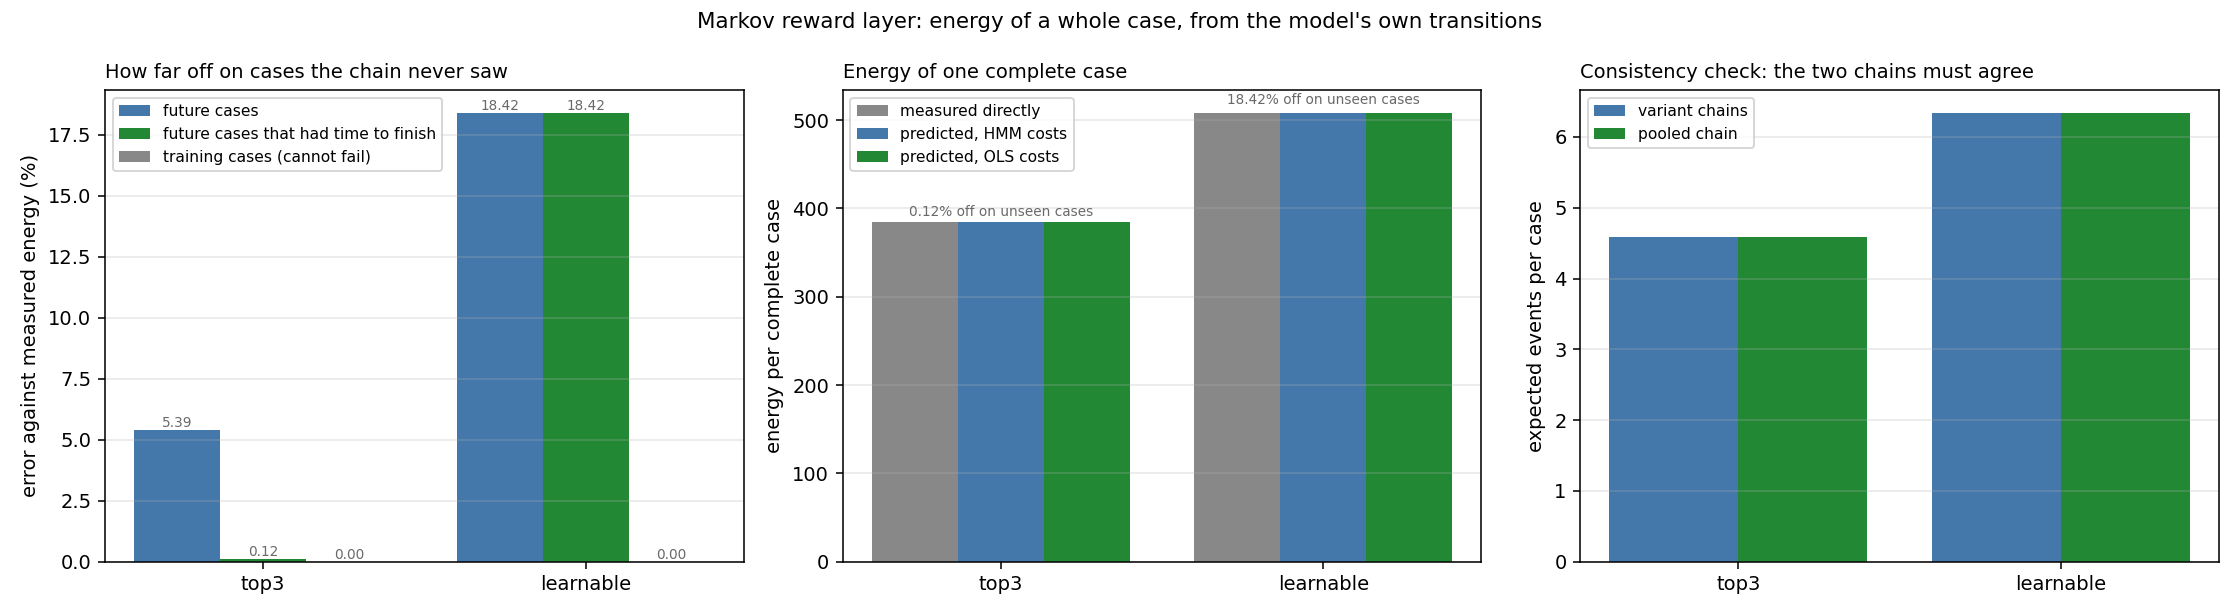
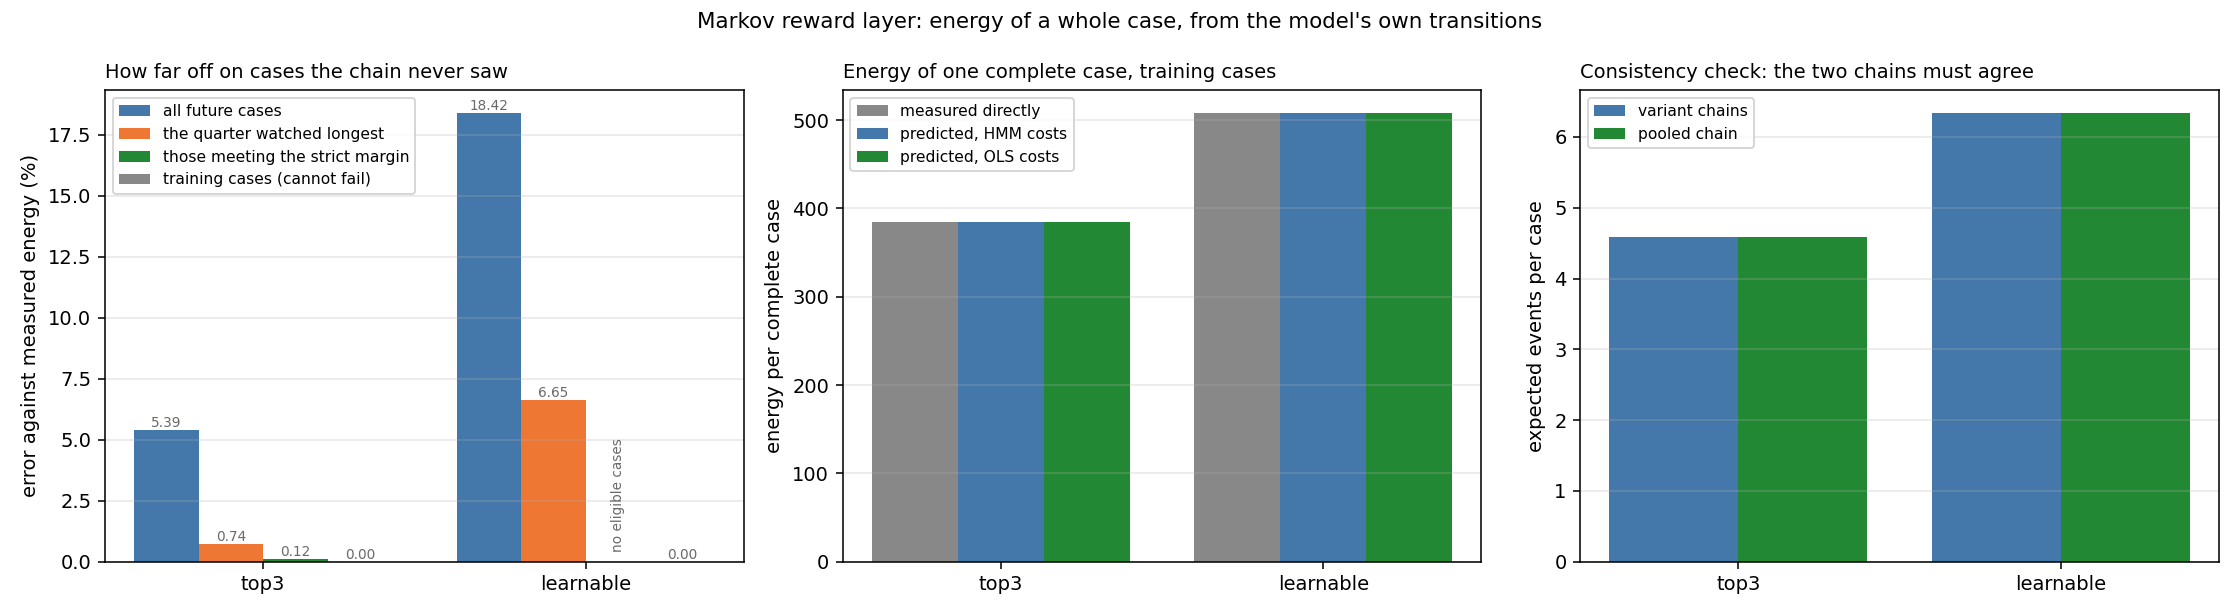
Take the end of the recording from the last gap, not the last event
The guard that removes future cases with too little time to finish derived the end of the recording from the very last recorded event. The log runs densely to 18 January 2019 at 14:34 and then stops, but exactly seven events out of 1,595,603 sit behind gaps of two weeks to five months after that date, so the observation window looked ten months longer than it is, every future case cleared the margin, and the two reported columns held the same number.

The end is now the last event before the first gap longer than a week, computed once from the complete log. Only four such gaps exist and all four lie in that tail. The settled and follow-up comparisons are made in clock time rather than in interval indices, because a scope with fewer activities has a shorter timeline of its own and an index would be capped at its last interval, giving each scope a different window.

On the whole system the strict test then has no eligible cases at all, which is the honest answer for this dataset, so a longest-follow-up quarter was added beside it: 15,516 cases at 6.65 percent, averaging 6.43 events against 6.35 for training cases. Those are cases watched longest, not cases known to have finished, and the pattern is consistent with truncation rather than proof of it. The figure separates the held-out panel from the training-case panel and no longer labels any group as a subset of another.

diff --git a/final_model/reward_layer.py b/final_model/reward_layer.py
@@ -59,9 +59,16 @@ average 4.5984 events, late starters only 3.6314, and case length correlates
 +0.43 with how much room was left.
 
 The "settled" columns therefore keep only future cases that began at least the
-90th percentile of training case duration before the log ends. Both are reported:
-where settled and future agree, the log end explains nothing and any gap is real
-process drift.
+90th percentile of training case duration before the recording ends, and the
+"longest_follow_up" columns keep the quarter of future cases watched longest.
+Neither group is a set of cases known to have finished; the first had a full
+margin of observation and the second had the most of it. Where the strict group
+exists and agrees with the full future group, the end of the recording explains
+nothing. Where it cannot be formed at all, as on the whole system, the strict
+test is simply unavailable, and the gap between the full future group and the
+longest-watched quarter is reported as evidence CONSISTENT WITH truncation by
+the end of the recording. It is not proof of truncation, and it is never process
+drift on the strength of these numbers alone.
 
 Usage
 ─────
@@ -72,6 +79,7 @@ from __future__ import annotations
 
 import argparse
 import sys
+from functools import lru_cache
 from pathlib import Path
 
 import numpy as np
@@ -80,8 +88,10 @@ import pandas as pd
 sys.path.insert(0, str(Path(__file__).resolve().parent.parent))
 
 from event_state_hmm import (  # noqa: E402
+    FREQ,
     _complete_training_cases,
     _fit_rewards,
+    _simulated_complete_events,
     fit_pooled_hmm,
     load_problem,
 )
@@ -145,6 +155,47 @@ def pooled_visits(problem) -> np.ndarray:
 
 
 SETTLED_QUANTILE = 0.90
+# The last recorded event is not a safe end date for the recording. The log runs
+# densely to 18 January 2019 and then stops. Exactly seven events out of
+# 1,595,603 sit behind gaps of two weeks to five months after that, and taking
+# the maximum stretches the observation window by ten months, which lets every
+# future case appear to have had time to finish. The end is therefore the last
+# event before the first gap longer than a week. There are only four such gaps in
+# the whole log and all four lie in that stray tail, so the rule is unambiguous.
+RECORDING_GAP = pd.Timedelta(days=7)
+# Share of future cases kept for the longest follow-up check.
+FOLLOW_UP_SHARE = 0.25
+
+
+@lru_cache(maxsize=1)
+def recording_end_timestamp() -> pd.Timestamp:
+    """When the log stops recording, taken once from the complete log.
+
+    One date is used for every scope. The recording period is a property of the
+    log, not of the subset being analysed, so deriving it per scope would give
+    each one a different observation window and make the settled columns
+    incomparable.
+    """
+    stamps = pd.DatetimeIndex(_simulated_complete_events()["ts"]).sort_values()
+    gaps = stamps[1:] - stamps[:-1]
+    big = np.flatnonzero(gaps > RECORDING_GAP)
+    return stamps[big[0]] if len(big) else stamps[-1]
+
+
+def _observation_deadline(problem) -> pd.Timestamp:
+    """The latest a case may start and still have a full margin of observation.
+
+    Everything here is done in clock time rather than in interval indices. A
+    scope holding fewer activities has a shorter timeline of its own, so an index
+    would be capped at that scope's last interval and each scope would end up
+    judged against a slightly different window. Timestamps keep the promise that
+    the observation period is one and the same for every scope.
+    """
+    grouped = problem.events.groupby("case", sort=False)["ts"]
+    first, last = grouped.min(), grouped.max()
+    training = list(_complete_training_cases(problem.events, problem.cut))
+    margin = (last[training] - first[training]).quantile(SETTLED_QUANTILE)
+    return recording_end_timestamp() - margin
 
 
 def future_cases(problem) -> set:
@@ -161,12 +212,26 @@ def settled_future_cases(problem) -> set:
     and it looks shorter than it is. The margin is the 90th percentile of how
     long a training case takes, so nine out of ten cases had room to finish.
     """
-    grouped = problem.events.groupby("case", sort=False)["bin"]
-    first, last = grouped.min(), grouped.max()
-    training = list(_complete_training_cases(problem.events, problem.cut))
-    margin = float((last[training] - first[training]).quantile(SETTLED_QUANTILE))
-    return {case for case in future_cases(problem)
-            if first[case] <= problem.events["bin"].max() - margin}
+    first = problem.events.groupby("case", sort=False)["ts"].min()
+    deadline = _observation_deadline(problem)
+    return {case for case in future_cases(problem) if first[case] <= deadline}
+
+
+def longest_follow_up_cases(problem) -> set:
+    """The quarter of future cases with the most observation time after they start.
+
+    On the whole system no future case clears the strict margin above, so that
+    column is empty there. This softer group is not a set of cases known to have
+    finished; it is the group that was watched longest, and it is reported as
+    supporting evidence rather than as a guaranteed result.
+    """
+    first = problem.events.groupby("case", sort=False)["ts"].min()
+    future = sorted(future_cases(problem))
+    if not future:
+        return set()
+    room = (recording_end_timestamp() - first[future]).clip(lower=pd.Timedelta(0))
+    threshold = room.quantile(1.0 - FOLLOW_UP_SHARE)
+    return set(room[room >= threshold].index)
 
 
 def _case_energy(events: pd.DataFrame, cases: set) -> tuple[float, float, int]:
@@ -220,7 +285,8 @@ def report(scope: str) -> dict:
     # The same prediction, now on cases the chain never saw.
     predicted = row["case_energy_variants_hmm"]
     for label, group in (("future", future_cases(problem)),
-                         ("settled", settled_future_cases(problem))):
+                         ("settled", settled_future_cases(problem)),
+                         ("longest_follow_up", longest_follow_up_cases(problem))):
         energy, length, count = _case_energy(problem.events, group)
         row[f"{label}_cases"] = count
         row[f"{label}_measured_mean_case_energy"] = energy

diff --git a/final_model/plot_reward.py b/final_model/plot_reward.py
@@ -7,7 +7,9 @@ Left panel   the real test: how far the prediction is from the truth on cases
              the chain never saw. Training agreement is shown beside it only for
              comparison, because a chain built by counting always reproduces the
              cases it counted, so that bar cannot fail.
-Middle panel the energy of one complete case, measured against predicted.
+Middle panel the energy of one complete case on TRAINING cases, measured against
+             predicted. The held-out comparison lives in the left panel; keeping
+             them apart stops the two being read as one result.
 Right panel  a consistency check: the per-variant chains and the pooled chain
              must expect the same number of events per case.
 
@@ -25,7 +27,7 @@ import numpy as np
 import pandas as pd
 
 OUT_DIR = Path(__file__).resolve().parent.parent / "results_event_state"
-GREY, BLUE, GREEN = "#888888", "#4477AA", "#228833"
+GREY, BLUE, GREEN, ORANGE = "#888888", "#4477AA", "#228833", "#EE7733"
 
 
 def bars(axis, positions, series, ylabel, title):
@@ -46,6 +48,8 @@ def label_bars(axis, positions, series, fmt="{:.2f}"):
     for index, (_, values, _) in enumerate(series):
         offset = (index - (len(series) - 1) / 2) * width
         for position, value in zip(positions + offset, values):
+            if not np.isfinite(value):
+                continue
             axis.text(position, value, fmt.format(value),
                       ha="center", va="bottom", fontsize=7, color="dimgray")
 
@@ -57,14 +61,23 @@ def main():
     x = np.arange(len(scopes))
     figure, axis = plt.subplots(1, 3, figsize=(16, 4.4))
 
+    # A missing settled bar is informative: on the whole system no future case
+    # clears the strict margin, so that test cannot be run there at all.
     honest = [
-        ("future cases", table["future_hmm_error_percent"], BLUE),
-        ("future cases that had time to finish", table["settled_hmm_error_percent"], GREEN),
+        ("all future cases", table["future_hmm_error_percent"], BLUE),
+        ("the quarter watched longest",
+         table["longest_follow_up_hmm_error_percent"], ORANGE),
+        ("those meeting the strict margin",
+         table["settled_hmm_error_percent"], GREEN),
         ("training cases (cannot fail)", table["hmm_error_percent"], GREY),
     ]
     bars(axis[0], x, honest, "error against measured energy (%)",
          "How far off on cases the chain never saw")
     label_bars(axis[0], x, honest)
+    for position, row in enumerate(table.itertuples()):
+        if pd.isna(row.settled_hmm_error_percent):
+            axis[0].text(position + 0.1, 0.4, "no eligible cases", rotation=90,
+                         ha="center", va="bottom", fontsize=7, color="dimgray")
 
     energy = [
         ("measured directly", table["measured_mean_case_energy"], GREY),
@@ -72,11 +85,7 @@ def main():
         ("predicted, OLS costs", table["case_energy_variants_ols"], GREEN),
     ]
     bars(axis[1], x, energy, "energy per complete case",
-         "Energy of one complete case")
-    for position, row in enumerate(table.itertuples()):
-        axis[1].text(position, row.measured_mean_case_energy * 1.02,
-                     f"{row.settled_hmm_error_percent:.2f}% off on unseen cases",
-                     ha="center", fontsize=7, color="dimgray")
+         "Energy of one complete case, training cases")
 
     chains = [
         ("variant chains", table["events_per_case_variants"], BLUE),
